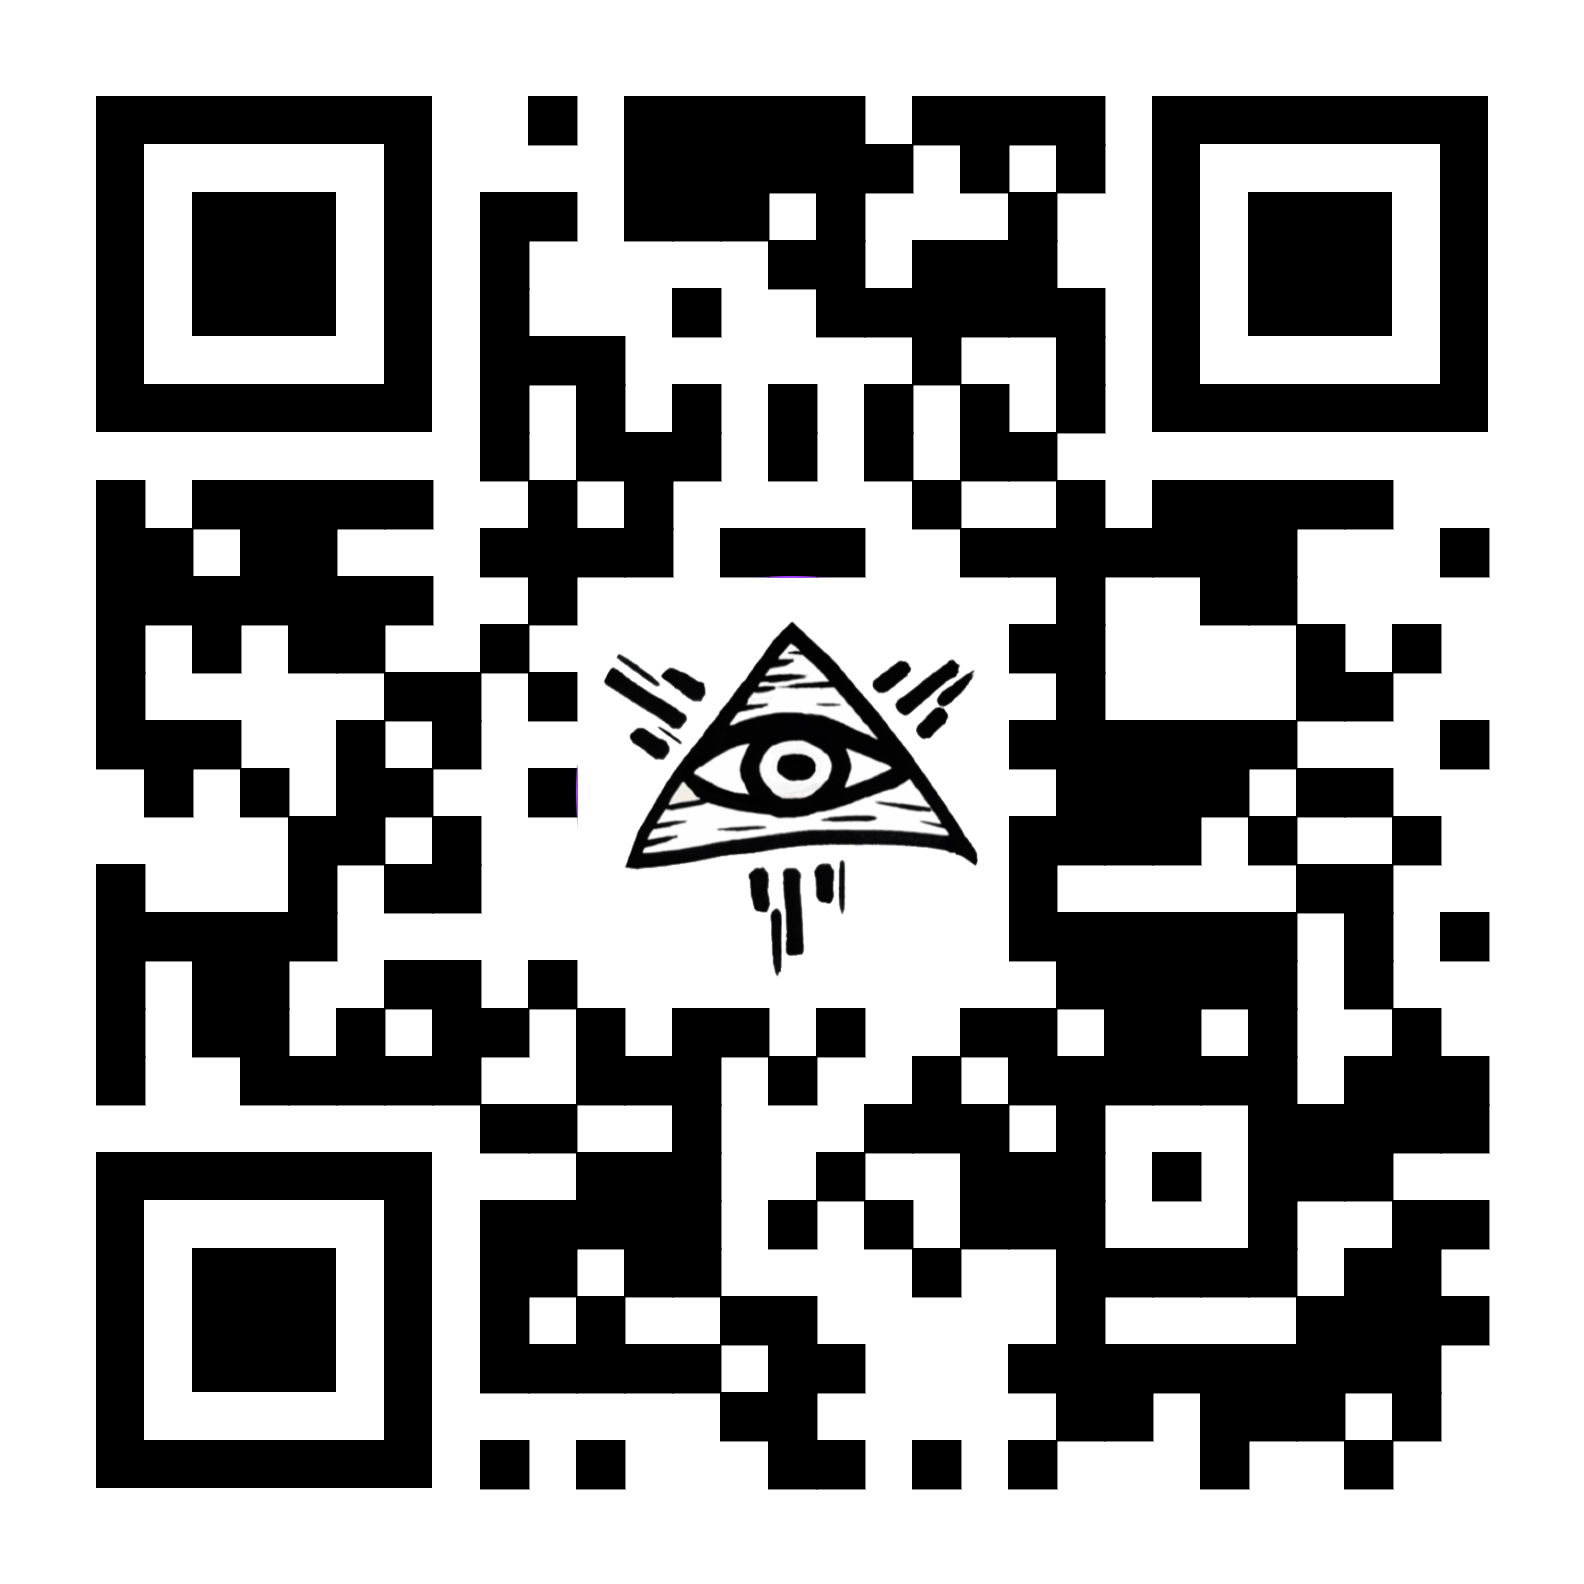
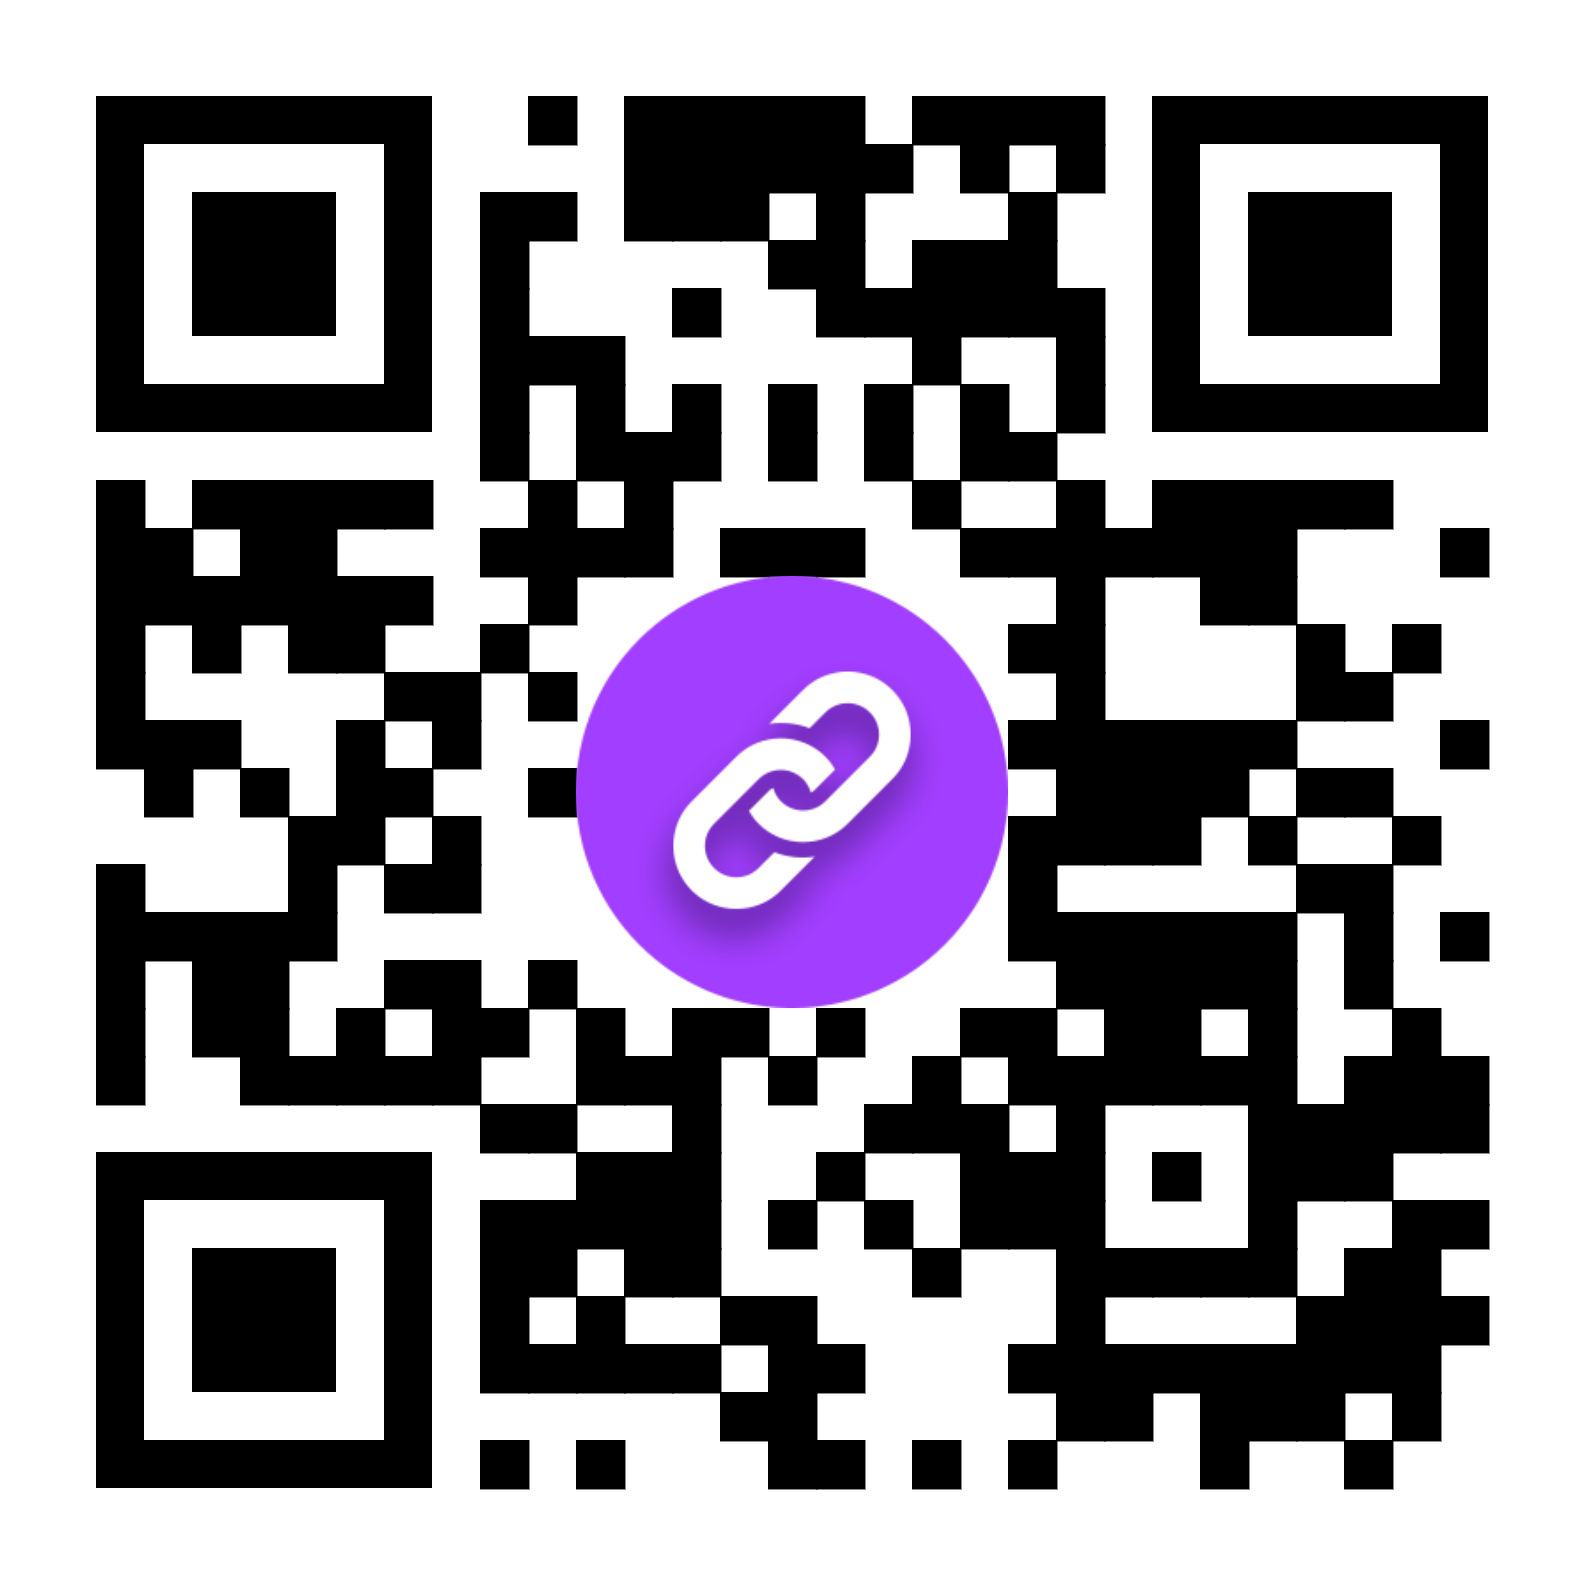
added qr2

Changed region(s): [[0.3403, 0.3403, 0.6496, 0.6496]]

diff --git a/art2.md b/art2.md
@@ -1,0 +1,3 @@
+# Wesprzyj artystę
+
+![QR](images/qr2.png)
